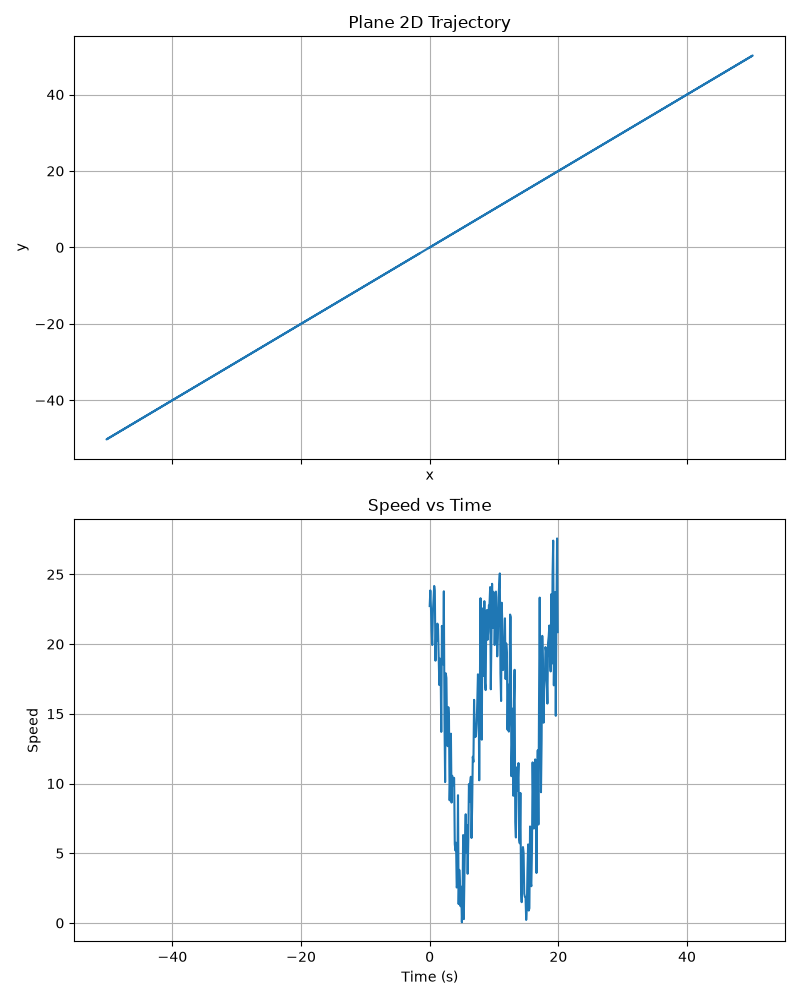
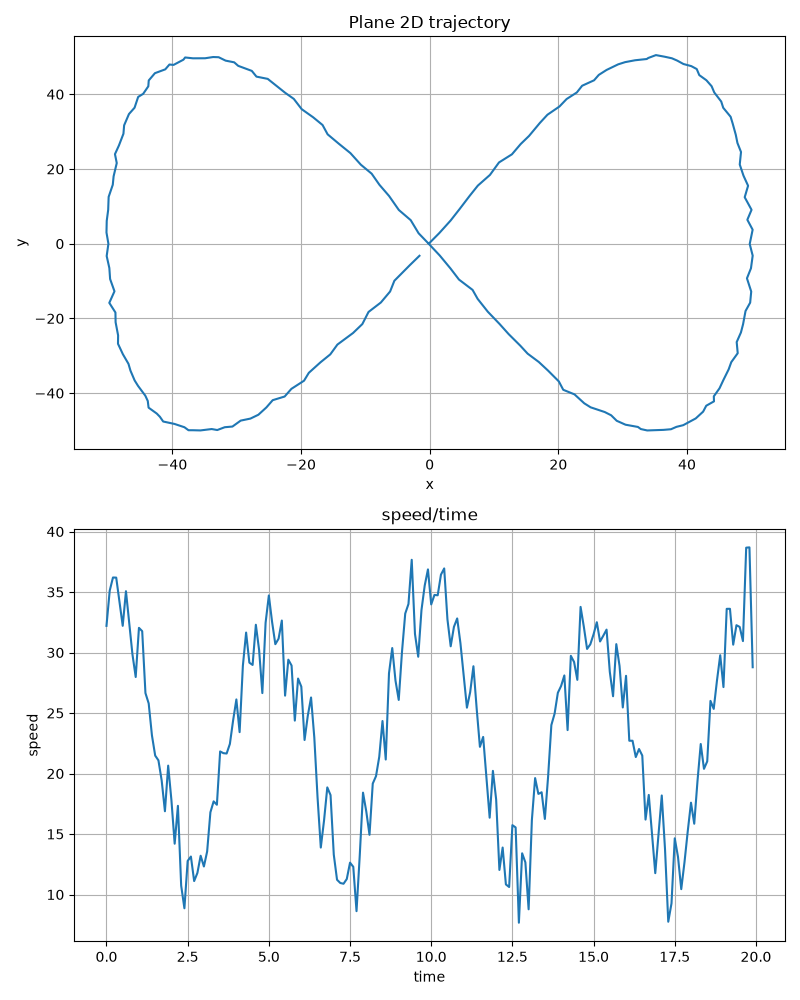
PW2 Lab A completed

diff --git a/PW2/Lab A/analysis.py b/PW2/Lab A/analysis.py
@@ -42,25 +42,25 @@ fig, axes = plt.subplots(3, 1, sharex=True, figsize=(8, 10))
 axes[0].plot(t, y_recover, color="red")
 axes[0].plot(t, y)
 axes[0].grid(True)
-axes[0].set_title("Free-Fall Motion")
-axes[0].set_ylabel("Position (m)")
-axes[0].set_xlabel("Time (s)")
+axes[0].set_title("freefall motion")
+axes[0].set_ylabel("position (m)")
+axes[0].set_xlabel("time (s)")
 # velocity
 axes[1].plot(t, v)
 axes[1].plot(t, v_recover, color="red")
 axes[1].grid(True)
-axes[1].set_ylabel("Velocity (m/s)")
-axes[1].set_xlabel("Time (s)")
+axes[1].set_ylabel("velocity (m/s)")
+axes[1].set_xlabel("time (s)")
 # acceleration
 axes[2].plot(t, a)
 axes[2].grid(True)
 axes[2].axhline(-9.81, linestyle="--", color="green")
-axes[2].set_ylabel("Acceleration (m/s²)")
-axes[2].set_xlabel("Time (s)")
+axes[2].set_ylabel("acceleration (m/s²)")
+axes[2].set_xlabel("time (s)")
 
 plt.tight_layout()
 plt.savefig("motion.png")
-# plt.show()
+plt.show()
 
 
 
@@ -70,25 +70,25 @@ data2 = np.loadtxt("trajectory.csv", delimiter=",", skiprows=1)
 
 t2 = data2[:, 0]
 x2 = data2[:, 1]
-y2 = data2[:, 1]
+y2 = data2[:, 2]
 
 vx = np.gradient(x2, t2)
 vy = np.gradient(y2, t2)
 speed = np.sqrt(vx**2 + vy**2)
-fig2, axes2 = plt.subplots(2, 1, sharex=True, figsize=(8, 10))
+fig2, axes2 = plt.subplots(2, 1, figsize=(8, 10))
 
 # position
 axes2[0].plot(x2, y2)
 axes2[0].grid(True)
-axes2[0].set_title("Plane 2D Trajectory")
+axes2[0].set_title("Plane 2D trajectory")
 axes2[0].set_ylabel("y")
 axes2[0].set_xlabel("x")
 # velocity
 axes2[1].plot(t2, speed)
 axes2[1].grid(True)
-axes2[1].set_title("Speed vs Time")
-axes2[1].set_ylabel("Speed")
-axes2[1].set_xlabel("Time (s)")
+axes2[1].set_title("speed/time")
+axes2[1].set_ylabel("speed")
+axes2[1].set_xlabel("time")
 
 plt.tight_layout()
 plt.savefig("motion2.png")
